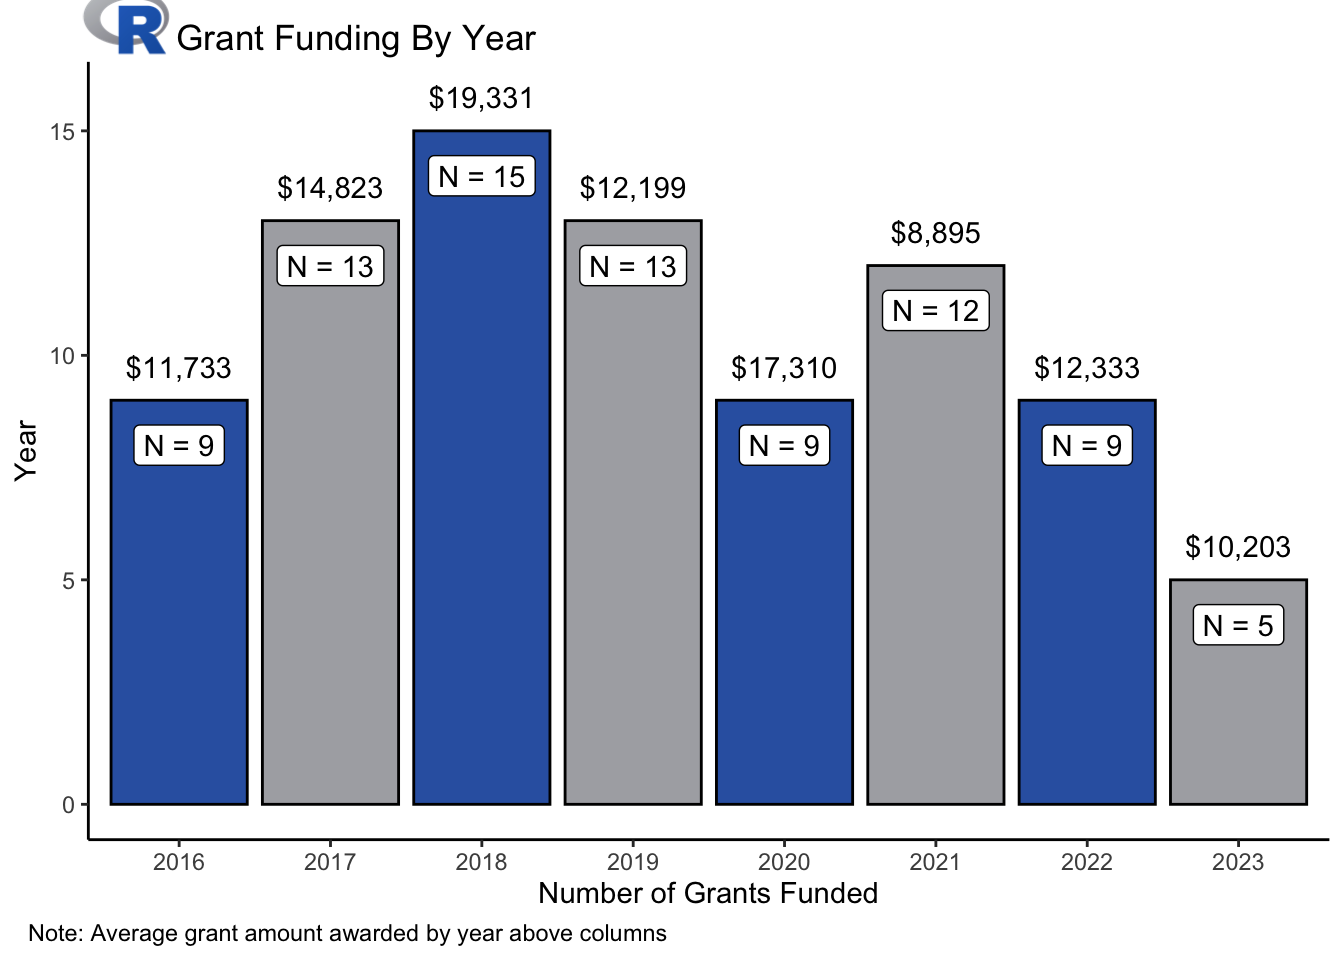
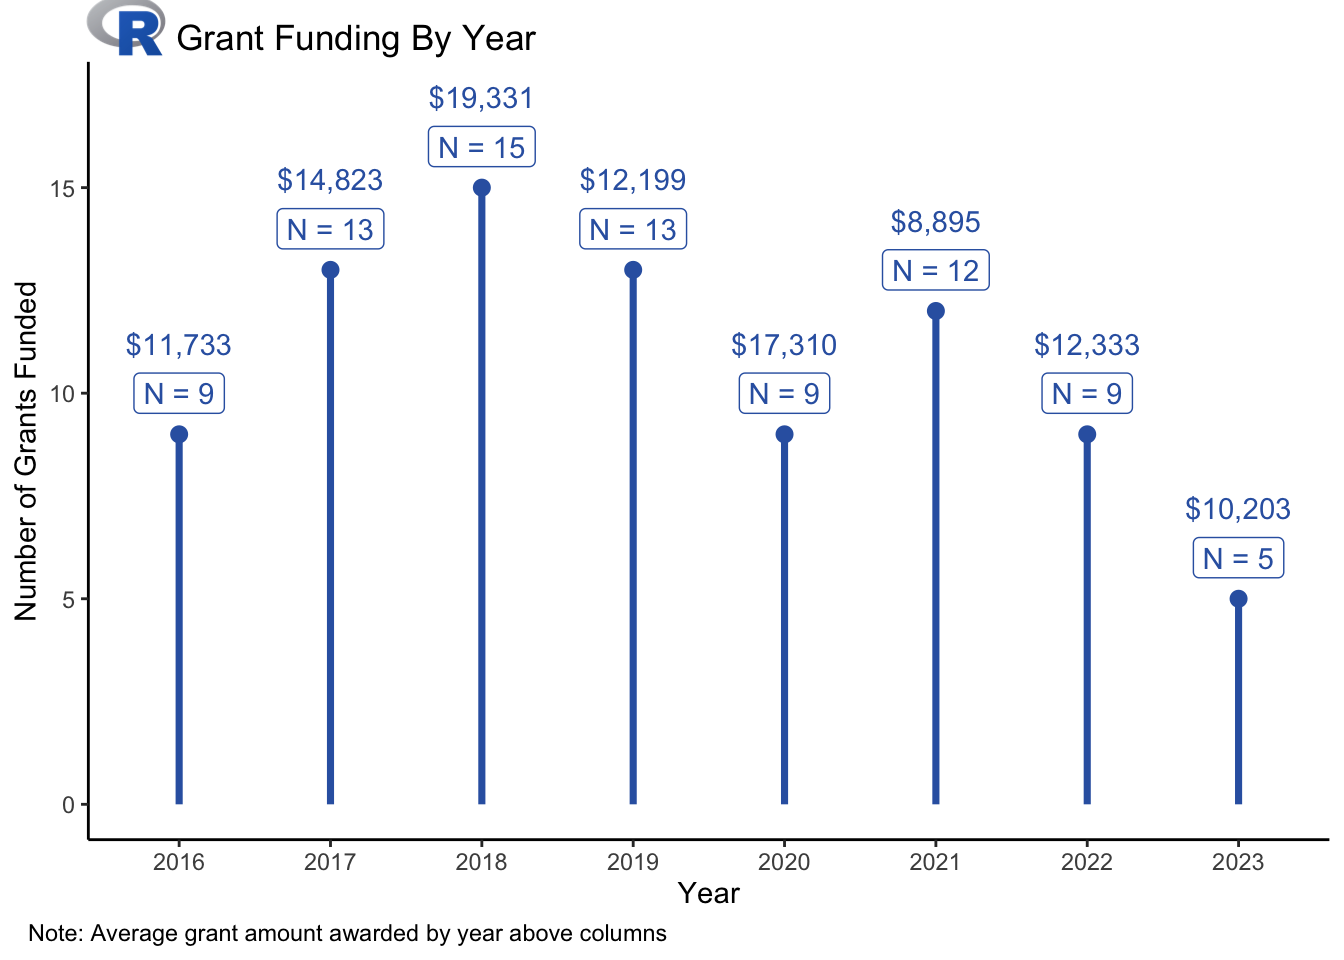
More tidytuesday

diff --git a/_site/tidytuesday/2_27_24/index.html b/_site/tidytuesday/2_27_24/index.html
@@ -354,20 +354,7 @@ pre > code.sourceCode > span > a:first-child::before { text-decoration: underlin
 <span></span>
 <span><span class="va">data</span> <span class="op">&lt;-</span> <span class="fu"><a href="https://rdrr.io/r/utils/read.table.html">read.csv</a></span><span class="op">(</span><span class="st">"data.csv"</span><span class="op">)</span></span>
 <span></span>
-<span><span class="fu"><a href="https://pillar.r-lib.org/reference/glimpse.html">glimpse</a></span><span class="op">(</span><span class="va">data</span><span class="op">)</span></span></code><button title="Copy to Clipboard" class="code-copy-button"><i class="bi"></i></button></pre></div>
-<div class="cell-output cell-output-stdout">
-<pre><code>Rows: 85
-Columns: 8
-$ X           &lt;int&gt; 1, 2, 3, 4, 5, 6, 7, 8, 9, 10, 11, 12, 13, 14, 15, 16, 17,…
-$ year        &lt;int&gt; 2023, 2023, 2023, 2023, 2023, 2022, 2022, 2022, 2022, 2022…
-$ group       &lt;int&gt; 1, 1, 1, 1, 1, 2, 2, 2, 2, 2, 1, 1, 1, 1, 2, 2, 2, 2, 1, 1…
-$ title       &lt;chr&gt; "The future of DBI (extension 1)", "Secure TLS Communicati…
-$ funded      &lt;int&gt; 10000, 10000, 12265, 3000, 15750, 8000, 8000, 22000, 6000,…
-$ proposed_by &lt;chr&gt; "Kirill Müller", "Charlie Gao", "Kristina Riemer", "Mark P…
-$ summary     &lt;chr&gt; "This proposal mostly focuses on the maintenance and suppo…
-$ website     &lt;chr&gt; NA, NA, NA, NA, NA, NA, NA, NA, NA, NA, NA, NA, NA, NA, NA…</code></pre>
-</div>
-<div class="sourceCode" id="cb3"><pre class="downlit sourceCode r code-with-copy"><code class="sourceCode R"><span><span class="va">plot_data</span> <span class="op">&lt;-</span><span class="va">data</span> <span class="op"><a href="https://magrittr.tidyverse.org/reference/pipe.html">%&gt;%</a></span> </span>
+<span><span class="va">plot_data</span> <span class="op">&lt;-</span><span class="va">data</span> <span class="op"><a href="https://magrittr.tidyverse.org/reference/pipe.html">%&gt;%</a></span> </span>
 <span>  <span class="fu"><a href="https://dplyr.tidyverse.org/reference/group_by.html">group_by</a></span><span class="op">(</span><span class="va">year</span><span class="op">)</span> <span class="op"><a href="https://magrittr.tidyverse.org/reference/pipe.html">%&gt;%</a></span> </span>
 <span>  <span class="fu"><a href="https://dplyr.tidyverse.org/reference/summarise.html">summarize</a></span><span class="op">(</span>n <span class="op">=</span> <span class="fu"><a href="https://dplyr.tidyverse.org/reference/context.html">n</a></span><span class="op">(</span><span class="op">)</span>,</span>
 <span>            average <span class="op">=</span> <span class="fu"><a href="https://rdrr.io/r/base/Round.html">round</a></span><span class="op">(</span><span class="fu"><a href="https://rdrr.io/r/base/mean.html">mean</a></span><span class="op">(</span><span class="va">funded</span><span class="op">)</span>,<span class="fl">0</span><span class="op">)</span>,</span>
@@ -384,19 +371,20 @@ $ website     &lt;chr&gt; NA, NA, NA, NA, NA, NA, NA, NA, NA, NA, NA, NA, NA, NA
 <span>  <span class="fu"><a href="https://dplyr.tidyverse.org/reference/mutate.html">mutate</a></span><span class="op">(</span>average <span class="op">=</span> <span class="fu">priceR</span><span class="fu">::</span><span class="fu"><a href="https://rdrr.io/pkg/priceR/man/format_dollars.html">format_dollars</a></span><span class="op">(</span><span class="va">average</span><span class="op">)</span>,</span>
 <span>         year <span class="op">=</span> <span class="fu"><a href="https://rdrr.io/r/base/factor.html">as.factor</a></span><span class="op">(</span><span class="va">year</span><span class="op">)</span><span class="op">)</span> <span class="op"><a href="https://magrittr.tidyverse.org/reference/pipe.html">%&gt;%</a></span> </span>
 <span>  <span class="fu"><a href="https://ggplot2.tidyverse.org/reference/ggplot.html">ggplot</a></span><span class="op">(</span><span class="fu"><a href="https://ggplot2.tidyverse.org/reference/aes.html">aes</a></span><span class="op">(</span>x<span class="op">=</span><span class="va">year</span>,y<span class="op">=</span><span class="va">n</span>,label<span class="op">=</span><span class="va">average</span><span class="op">)</span><span class="op">)</span> <span class="op">+</span> </span>
-<span>  <span class="fu"><a href="https://ggplot2.tidyverse.org/reference/geom_bar.html">geom_col</a></span><span class="op">(</span><span class="fu"><a href="https://ggplot2.tidyverse.org/reference/aes.html">aes</a></span><span class="op">(</span>x<span class="op">=</span><span class="va">year</span>,y<span class="op">=</span><span class="va">n</span>,fill<span class="op">=</span><span class="va">year</span><span class="op">)</span>,color<span class="op">=</span><span class="st">"black"</span>,show.legend <span class="op">=</span> <span class="cn">FALSE</span><span class="op">)</span> <span class="op">+</span></span>
-<span>  <span class="fu"><a href="https://ggplot2.tidyverse.org/reference/scale_manual.html">scale_fill_manual</a></span><span class="op">(</span>values <span class="op">=</span> <span class="fu"><a href="https://rdrr.io/r/base/rep.html">rep</a></span><span class="op">(</span><span class="fu"><a href="https://rdrr.io/r/base/c.html">c</a></span><span class="op">(</span><span class="st">"#3363B0"</span>,<span class="st">"#ACADB1"</span><span class="op">)</span>,<span class="fl">4</span><span class="op">)</span><span class="op">)</span> <span class="op">+</span></span>
-<span>  <span class="fu"><a href="https://ggplot2.tidyverse.org/reference/geom_text.html">geom_text</a></span><span class="op">(</span><span class="fu"><a href="https://ggplot2.tidyverse.org/reference/aes.html">aes</a></span><span class="op">(</span>x<span class="op">=</span><span class="va">year</span>,y<span class="op">=</span> <span class="va">n</span> <span class="op">+</span> <span class="fl">.75</span><span class="op">)</span>,show.legend <span class="op">=</span> <span class="cn">FALSE</span><span class="op">)</span> <span class="op">+</span> </span>
-<span>  <span class="fu"><a href="https://ggplot2.tidyverse.org/reference/geom_text.html">geom_label</a></span><span class="op">(</span><span class="fu"><a href="https://ggplot2.tidyverse.org/reference/aes.html">aes</a></span><span class="op">(</span>x<span class="op">=</span><span class="va">year</span>,y<span class="op">=</span> <span class="va">n</span> <span class="op">-</span> <span class="fl">1</span>,label<span class="op">=</span><span class="fu">glue</span><span class="fu">::</span><span class="fu"><a href="https://glue.tidyverse.org/reference/glue.html">glue</a></span><span class="op">(</span><span class="st">"N = {n}"</span><span class="op">)</span><span class="op">)</span><span class="op">)</span> <span class="op">+</span></span>
+<span>  <span class="fu"><a href="https://ggplot2.tidyverse.org/reference/geom_point.html">geom_point</a></span><span class="op">(</span><span class="fu"><a href="https://ggplot2.tidyverse.org/reference/aes.html">aes</a></span><span class="op">(</span>x<span class="op">=</span><span class="va">year</span>,y<span class="op">=</span><span class="va">n</span><span class="op">)</span>,size <span class="op">=</span> <span class="fl">2.5</span>,color<span class="op">=</span><span class="st">"#3363B0"</span>,show.legend <span class="op">=</span> <span class="cn">FALSE</span><span class="op">)</span> <span class="op">+</span></span>
+<span><span class="co">#  scale_fill_manual(values = rep(c("#3363B0","#ACADB1"),4)) +</span></span>
+<span>  <span class="fu">ggplot2</span><span class="fu">::</span><span class="fu"><a href="https://ggplot2.tidyverse.org/reference/geom_segment.html">geom_segment</a></span><span class="op">(</span><span class="fu"><a href="https://ggplot2.tidyverse.org/reference/aes.html">aes</a></span><span class="op">(</span>x<span class="op">=</span><span class="va">year</span>,xend<span class="op">=</span><span class="va">year</span>,y<span class="op">=</span><span class="fl">0</span>,yend<span class="op">=</span><span class="va">n</span><span class="op">)</span>,linewidth<span class="op">=</span><span class="fl">1.25</span>,color<span class="op">=</span><span class="st">"#3363B0"</span><span class="op">)</span> <span class="op">+</span></span>
+<span>  <span class="fu"><a href="https://ggplot2.tidyverse.org/reference/geom_text.html">geom_text</a></span><span class="op">(</span><span class="fu"><a href="https://ggplot2.tidyverse.org/reference/aes.html">aes</a></span><span class="op">(</span>x<span class="op">=</span><span class="va">year</span>,y<span class="op">=</span> <span class="va">n</span> <span class="op">+</span> <span class="fl">2.2</span><span class="op">)</span>,color<span class="op">=</span><span class="st">"#3363B0"</span>,show.legend <span class="op">=</span> <span class="cn">FALSE</span><span class="op">)</span> <span class="op">+</span> </span>
+<span>  <span class="fu"><a href="https://ggplot2.tidyverse.org/reference/geom_text.html">geom_label</a></span><span class="op">(</span><span class="fu"><a href="https://ggplot2.tidyverse.org/reference/aes.html">aes</a></span><span class="op">(</span>x<span class="op">=</span><span class="va">year</span>,y<span class="op">=</span> <span class="va">n</span> <span class="op">+</span> <span class="fl">1</span>,label<span class="op">=</span><span class="fu">glue</span><span class="fu">::</span><span class="fu"><a href="https://glue.tidyverse.org/reference/glue.html">glue</a></span><span class="op">(</span><span class="st">"N = {n}"</span><span class="op">)</span><span class="op">)</span>,color<span class="op">=</span><span class="st">"#3363B0"</span><span class="op">)</span> <span class="op">+</span></span>
 <span>  <span class="fu"><a href="https://ggplot2.tidyverse.org/reference/ggtheme.html">theme_classic</a></span><span class="op">(</span><span class="op">)</span> <span class="op">+</span></span>
 <span>  <span class="fu"><a href="https://ggplot2.tidyverse.org/reference/labs.html">labs</a></span><span class="op">(</span>title <span class="op">=</span> <span class="st">"Grant Funding By Year"</span>,</span>
-<span>       x <span class="op">=</span> <span class="st">"Number of Grants Funded"</span>,</span>
-<span>       y <span class="op">=</span> <span class="st">"Year"</span>,</span>
+<span>       x <span class="op">=</span> <span class="st">"Year"</span>,</span>
+<span>       y <span class="op">=</span> <span class="st">"Number of Grants Funded"</span>,</span>
 <span>       caption <span class="op">=</span> <span class="st">"Note: Average grant amount awarded by year above columns"</span><span class="op">)</span> <span class="op">+</span></span>
 <span>  <span class="fu"><a href="https://ggplot2.tidyverse.org/reference/theme.html">theme</a></span><span class="op">(</span>plot.caption <span class="op">=</span> <span class="fu"><a href="https://ggplot2.tidyverse.org/reference/element.html">element_text</a></span><span class="op">(</span>hjust <span class="op">=</span> <span class="op">-</span><span class="fl">.10</span><span class="op">)</span>,</span>
 <span>        plot.title <span class="op">=</span> <span class="fu"><a href="https://ggplot2.tidyverse.org/reference/element.html">element_text</a></span><span class="op">(</span>hjust <span class="op">=</span> <span class="fl">.1</span>,vjust <span class="op">=</span> <span class="op">-</span><span class="fl">.3</span><span class="op">)</span><span class="op">)</span> <span class="op">+</span></span>
 <span>  <span class="fu"><a href="https://ggplot2.tidyverse.org/reference/coord_cartesian.html">coord_cartesian</a></span><span class="op">(</span>clip <span class="op">=</span> <span class="st">'off'</span><span class="op">)</span> <span class="op">+</span></span>
-<span>  <span class="fu"><a href="https://ggplot2.tidyverse.org/reference/annotation_custom.html">annotation_custom</a></span><span class="op">(</span><span class="va">RImage</span>, x <span class="op">=</span> <span class="op">-</span><span class="fl">0.10</span>, xmax <span class="op">=</span> <span class="fl">1.40</span>, y <span class="op">=</span> <span class="fl">16.7</span>, ymax <span class="op">=</span> <span class="fl">18.2</span><span class="op">)</span></span>
+<span>  <span class="fu"><a href="https://ggplot2.tidyverse.org/reference/annotation_custom.html">annotation_custom</a></span><span class="op">(</span><span class="va">RImage</span>, x <span class="op">=</span> <span class="op">-</span><span class="fl">0.10</span>, xmax <span class="op">=</span> <span class="fl">1.40</span>, y <span class="op">=</span> <span class="fl">18.2</span>, ymax <span class="op">=</span> <span class="fl">19.7</span><span class="op">)</span></span>
 <span></span>
 <span><span class="fu"><a href="https://ggplot2.tidyverse.org/reference/ggsave.html">ggsave</a></span><span class="op">(</span>filename <span class="op">=</span> <span class="st">"Rgrant.png"</span><span class="op">)</span></span></code><button title="Copy to Clipboard" class="code-copy-button"><i class="bi"></i></button></pre></div>
 </div>

diff --git a/_site/tidytuesday.html b/_site/tidytuesday.html
@@ -377,7 +377,7 @@ window.Quarto = {
 
 <div class="quarto-listing quarto-listing-container-default" id="listing-listing">
 <div class="list quarto-listing-default">
-<div class="quarto-post image-right" data-index="0" data-categories="Grants,R,TidyTuesday" data-listing-date-sort="1708405200000" data-listing-file-modified-sort="1708998503106" data-listing-date-modified-sort="NaN" data-listing-reading-time-sort="2" data-listing-word-count-sort="215">
+<div class="quarto-post image-right" data-index="0" data-categories="Grants,R,TidyTuesday" data-listing-date-sort="1708405200000" data-listing-file-modified-sort="1709048507367" data-listing-date-modified-sort="NaN" data-listing-reading-time-sort="2" data-listing-word-count-sort="220">
 <div class="thumbnail">
 <p><a href="./tidytuesday/2_27_24/index.html" class="no-external"></a></p><a href="./tidytuesday/2_27_24/index.html" class="no-external">
 <p class="card-img-top"><img src="tidytuesday/2_27_24/index_files/figure-html/plot-1.png"  class="thumbnail-image card-img"/></p>
